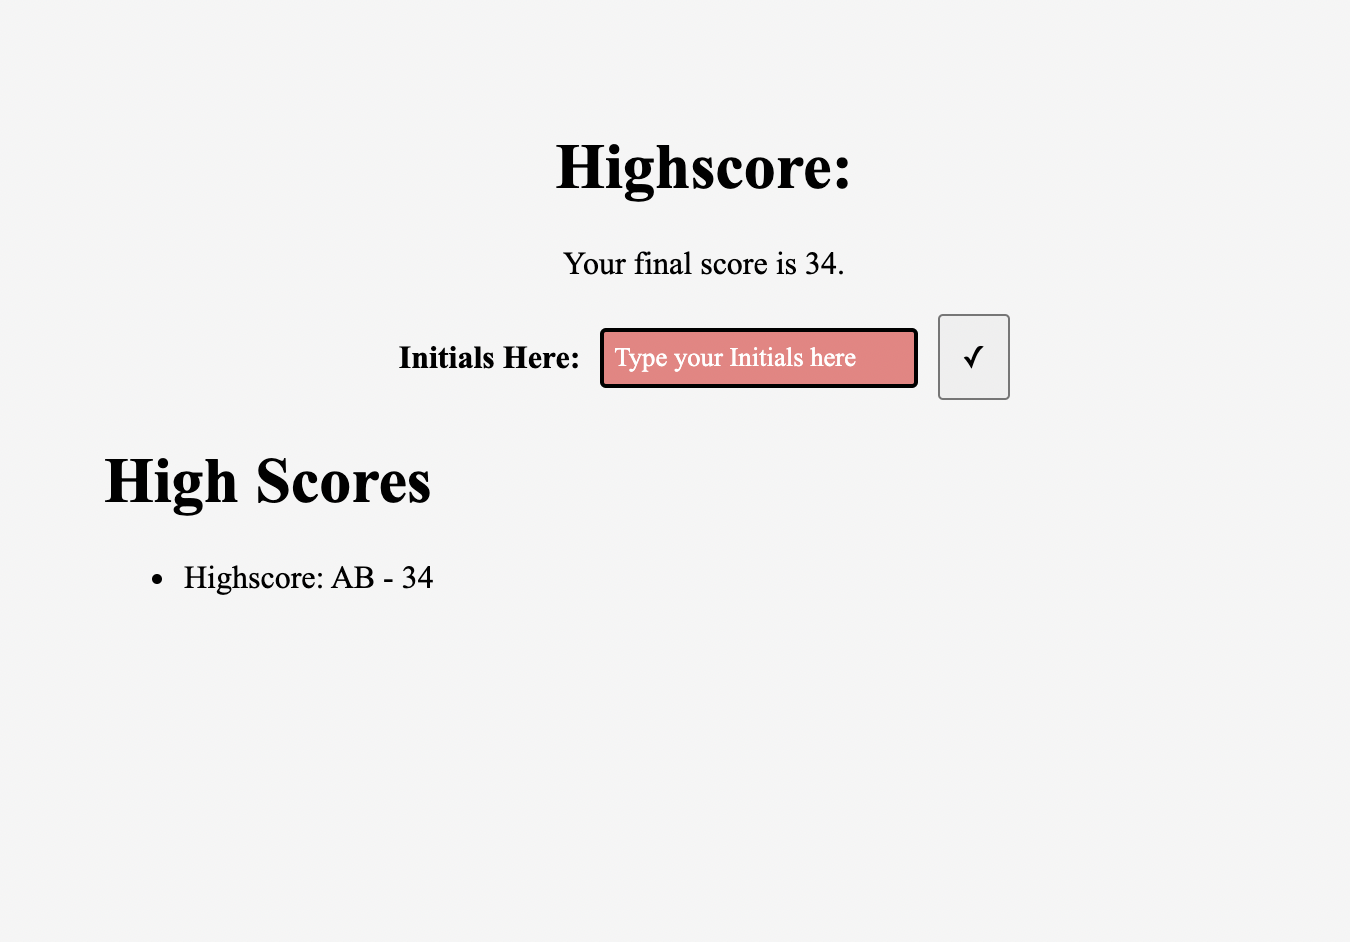
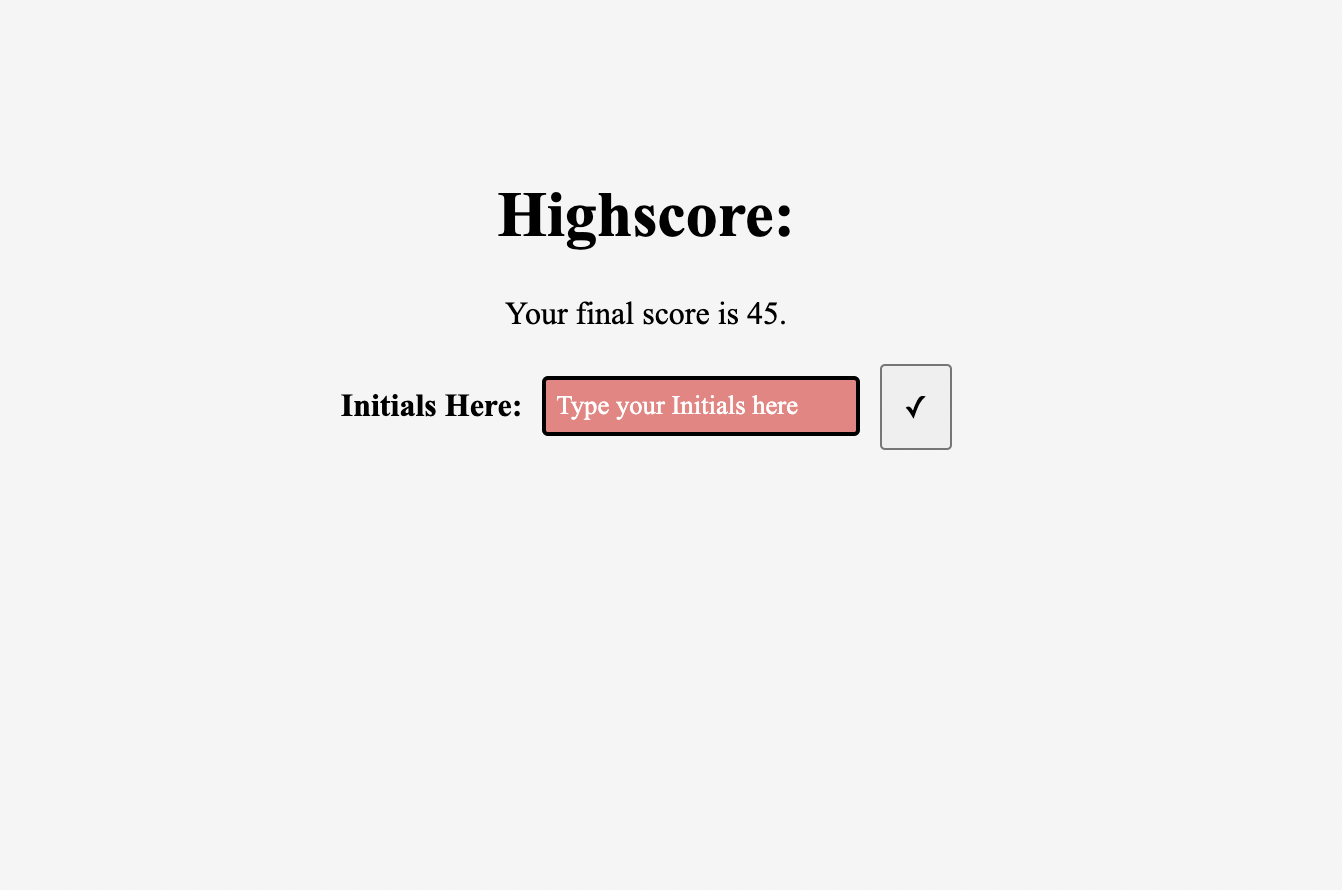
After extension fixes and updating the readme

Changed region(s): [[0.0611, 0.3337, 0.7332, 0.5461], [0.3666, 0.1517, 0.6416, 0.3034], [0.1222, 0.6067, 0.3361, 0.6371]]

diff --git a/score.html b/score.html
@@ -1,0 +1,30 @@
+<!DOCTYPE html>
+<html lang="en">
+
+<head>
+    <meta charset="UTF-8">
+    <meta http-equiv="X-UA-Compatible" content="IE=edge">
+    <meta name="viewport" content="width=device-width, initial-scale=1.0">
+    <link rel="stylesheet" href="./assets/css/style.css" />
+    <title>Code Quiz</title>
+</head>
+
+<body onload="renderScore()">
+    <header>
+        <div class="timer">
+            <div class="timer-text">Time: 60</div>
+        </div>
+    </header>
+    <main>
+        <div class="container">
+            <div id="question-container">
+                <div class="card">
+                    <h1>High Scores</h1>
+                    <ul id="score-list"></ul>
+                </div>
+            </div>
+    </main>
+    <script src="./assets/js/script.js"></script>
+</body>
+
+</html>

diff --git a/index.html b/index.html
@@ -11,6 +11,7 @@
 
 <body>
     <header>
+        <a href="./score.html" target="_blank">View Highscore</a>
         <div class="timer">
             <div class="timer-text">Time: 60</div>
         </div>
@@ -43,11 +44,6 @@
                     <button class="submitButton">✓</button>
                     </input>
                 </form>
-                <div class="card hidden">
-                    <h1>High Scores</h1>
-                    <ul id="score-list"></ul>
-                
-                </div>
             </div>
     </main>
     <script src="./assets/js/script.js"></script>

diff --git a/assets/js/script.js b/assets/js/script.js
@@ -143,13 +143,11 @@ function highScore() {
     questionEl.classList.add("hidden");
     buttons.classList.add("hidden");
     highscore.classList.remove("hidden");
-    input.classList.remove("hidden");
-    card.classList.remove("hidden");
+    input.classList.remove("hidden")
     clearInterval(timeInterval)
     score = timerEl.textContent
-    setScores();
     scoreText.textContent = ("Your final score is " + score + ".");
-
+    setScores();
 }
 
 function subtract() {

diff --git a/README.md b/README.md
@@ -7,21 +7,21 @@
 
 [Description](#Description)
 
-This project's goal is to create a timed code quiz to test my knowledge. To do this, I created a basic html webpage with a timer in the top left, a title, description, and start button in the center. From there I styled it with some basic colors and font styles and moved on to designing the actual Javascript.
+This project's goal is to create a timed code quiz to test my knowledge. To do this, I created a basic html webpage with a timer in the top right, a title, description, and start button in the center. From there I styled it with some basic colors and font styles and moved on to designing the actual Javascript.
 
 <img src="./assets/images/start-screen.png" />
 
 Starting the Javascript, I created an array of objects containing all of my questions that allowed me to updating each question with a for loop. I then created a function to start the game that would hide the start game title, description, and button being replaced with the first question.
 
-I then created a timer that would start counting down from 60. When this timer reaches 0, a function would force end the game revealing the highscores page. This page would also appear if you answered all of the questions. Through an event listener, I created a way for the incorrect answers to remove 10 seconds from the timer. If you reached below 0 this way, the highscore page would appear with your score at 0. 
+I then created a timer that would start counting down from 60. When this timer reaches 0, a function would force end the game revealing the end score page. This page would also appear if you answered all of the questions. Through an event listener, I created a way for the incorrect answers to remove 10 seconds from the timer. If you reached below 0 this way, the end score page would appear with your score at 0. 
 
 <img src="./assets/images/question.png" />
 
-On the highscore page you can see your score and input your initials to save your score. I then locally stored your score and initials and pulled them out of storage to fill the highscore display at the bottom of the screen.
+On the end score page you can see your score and input your initials to save your score. I then locally stored your score and initials. In the top left corner, there is a link to the high scores page which displays the scores that I pulled from out of storage to fill the highscore display on screen.
 
 [Usage](#Usage)
 
-To use this application, you first must press the start button and this will activate the quiz. Once the quiz is underway, a timer in  the top left of the screen will start to count down and a question will appear. When you answer a question incorrectly, you will lose ten seconds on the timer, otherwise it just progresses to the next page. At the end of the quiz, a highscore page will appear where you can input your initials and save your score at the bottom.
+To use this application, you first must press the start button and this will activate the quiz. Once the quiz is underway, a timer in  the top left of the screen will start to count down and a question will appear. When you answer a question incorrectly, you will lose ten seconds on the timer, otherwise it just progresses to the next page. At the end of the quiz, an end score page will appear where you can input your initials and save your score. If you click on the view scores link in the top left, it will open a page in a new tab and display your saved score there.
 
 <img src="./assets/images/high-score.png" />
 
